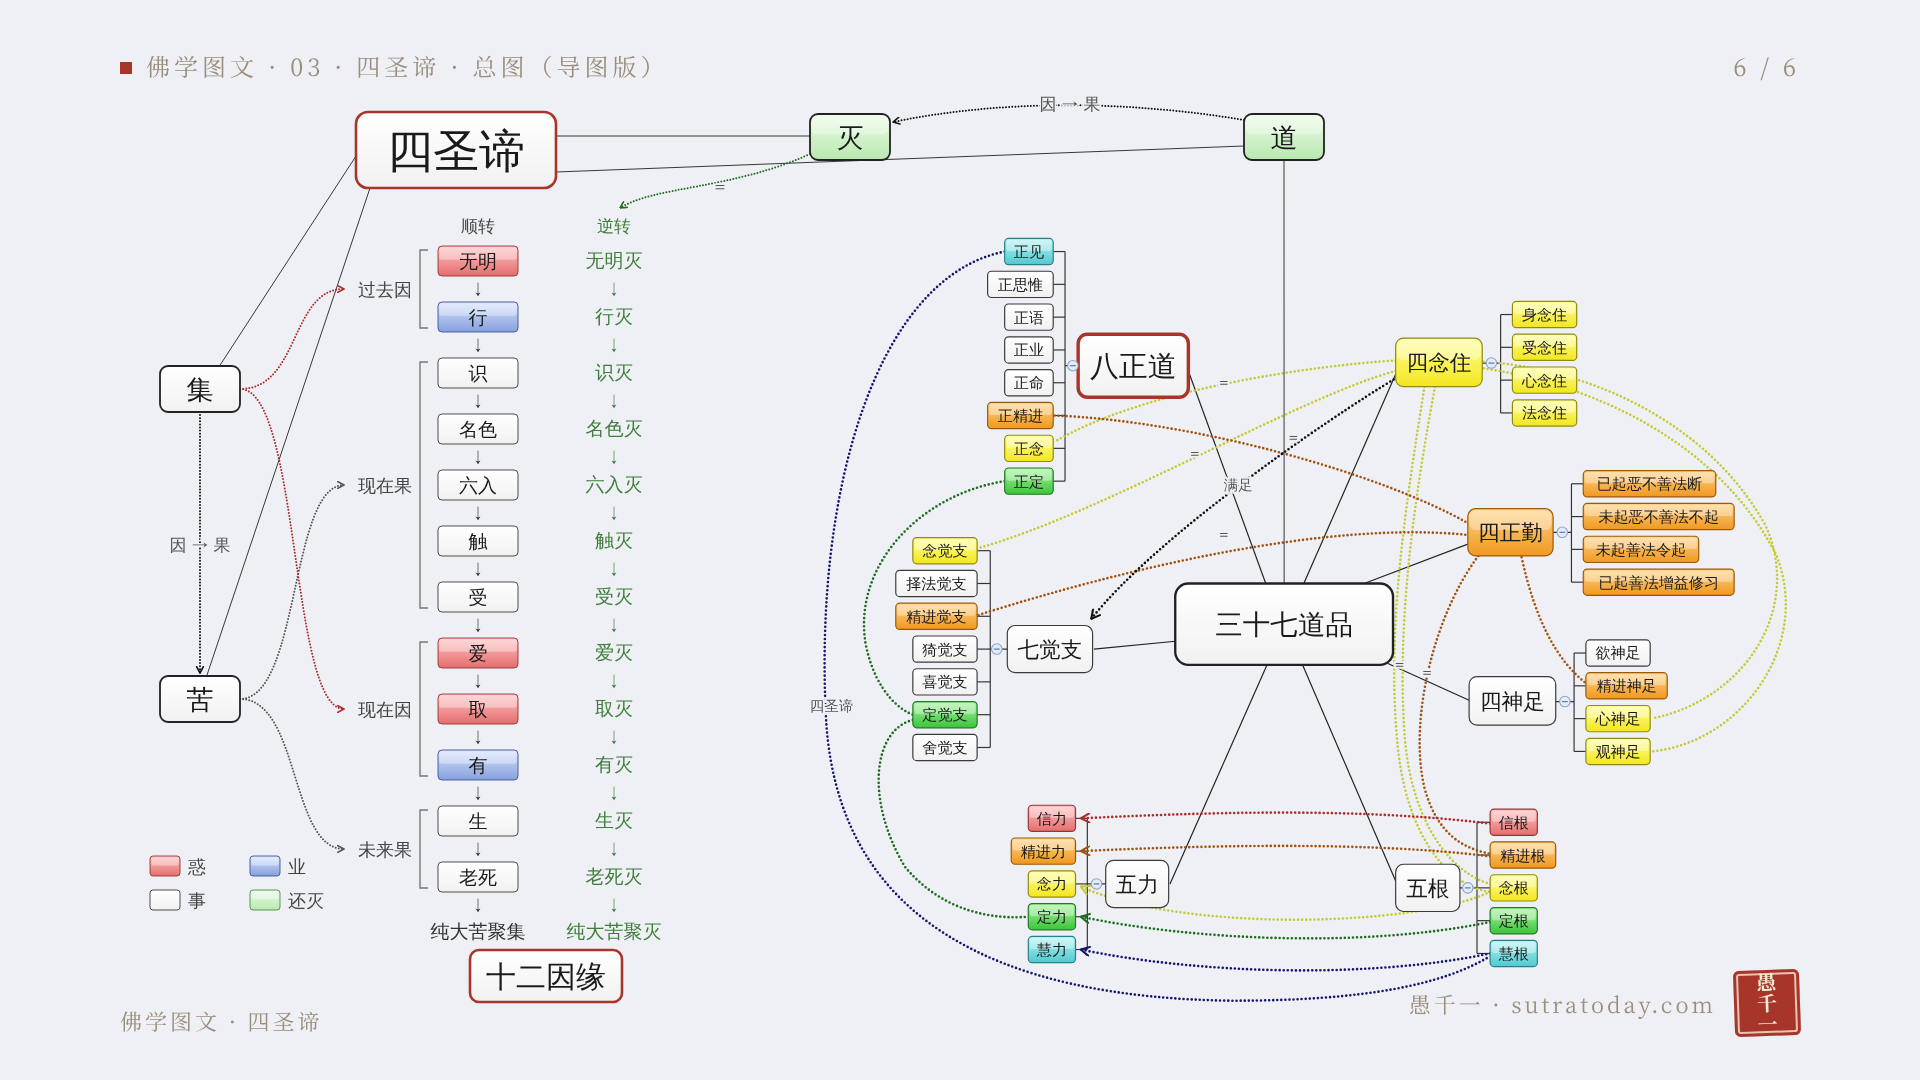
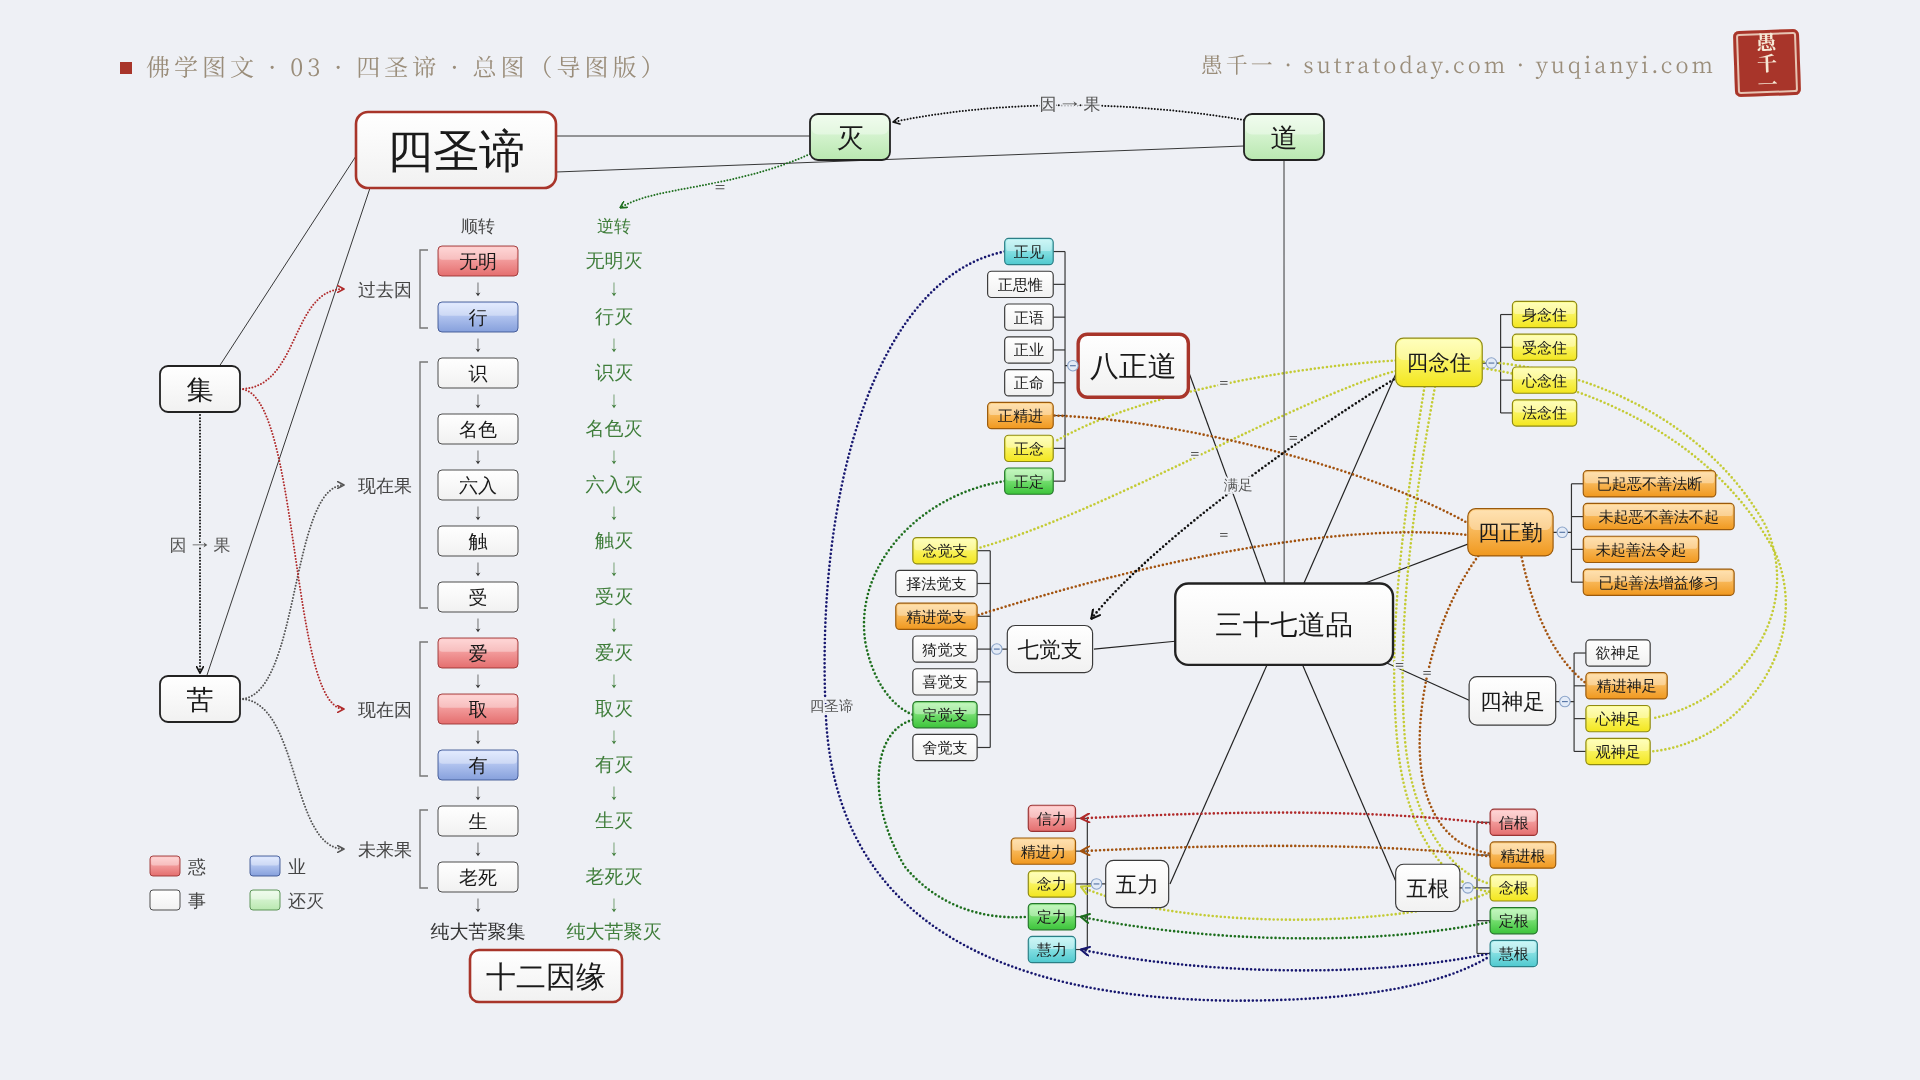
videos: 四圣谛图卡署名加上 yuqianyi.com；两张导图卡的署名移到右上角
Claude-Session: https://claude.ai/code/session_01HUmfYdn8wkAM14ebYcQraf

diff --git a/videos/four-noble-truths-infographic/cards.html b/videos/four-noble-truths-infographic/cards.html
@@ -230,6 +230,10 @@
   .card.xm svg.mm text.ni { fill: #3f7d3a; }
   .card.xm svg.mm text.ar { fill: #333; }
   .card.xm.ov svg.mm { font-family: "PingFang SC", "Microsoft YaHei", "Noto Sans SC", "WenQuanYi Zen Hei", sans-serif; }
+  /* 导图卡底部被图占满：署名移到右上角，页码随之隐藏 */
+  .card.xm .foot { top: 30px; bottom: auto; justify-content: flex-end; }
+  .card.xm .foot > span:first-child { display: none; }
+  .card.xm .head .pg { display: none; }
   .q { margin-top: 18px; font-size: 27px; line-height: 1.6; letter-spacing: .5px; border-left: 6px solid var(--cinnabar); padding: 4px 0 4px 24px; }
   .q small { display: block; font-size: 22px; color: var(--ink-soft); }
 </style>
@@ -287,7 +291,7 @@
 
   <div class="q" style="margin-top:20px">「此有故彼有，此起故彼起，谓缘无明行，乃至纯大苦聚集。」<small>《杂阿含经》卷 12 第 298 经（T99）：十二支的解释同出此经。三世两重因果依《俱舍论》卷 9「十二支三际，前后际各二，中八据圆满」</small></div>
 
-  <div class="foot"><span>佛学图文 · 四圣谛</span><span class="sign">愚千一 · sutratoday.com<span class="seal">愚千一</span></span></div>
+  <div class="foot"><span>佛学图文 · 四圣谛</span><span class="sign">愚千一 · sutratoday.com · yuqianyi.com<span class="seal">愚千一</span></span></div>
 </section>
 
 <!-- ===== 灭道 与 十二因缘逆转 ===== -->
@@ -350,7 +354,7 @@
 
   <div class="q" style="margin-top:40px">「若无明离欲而生明……老死则断，则知断其根本，如截多罗树头，于未来世成不生法。」<small>《杂阿含经》卷 12 第 297 经 大空法经（T99）　同经：「彼无明灭则行灭，乃至纯大苦聚灭」</small></div>
 
-  <div class="foot"><span>佛学图文 · 四圣谛</span><span class="sign">愚千一 · sutratoday.com<span class="seal">愚千一</span></span></div>
+  <div class="foot"><span>佛学图文 · 四圣谛</span><span class="sign">愚千一 · sutratoday.com · yuqianyi.com<span class="seal">愚千一</span></span></div>
 </section>
 
 <!-- ===== 八正道 展开为 三十七道品 ===== -->
@@ -388,7 +392,7 @@
 
   <div class="q" style="margin-top:18px">「八圣道修习满足已，四念处修习满足，四正勤、四如意足、五根、五力、七觉分修习满足。」<small>《杂阿含经》卷 13 第 305 经（T99）；四念处即正念：同经卷 37 第 1028 经；其余归属依《解脱道论》卷 11「三十七菩提法，成入八正道内」</small></div>
 
-  <div class="foot"><span>佛学图文 · 四圣谛</span><span class="sign">愚千一 · sutratoday.com<span class="seal">愚千一</span></span></div>
+  <div class="foot"><span>佛学图文 · 四圣谛</span><span class="sign">愚千一 · sutratoday.com · yuqianyi.com<span class="seal">愚千一</span></span></div>
 </section>
 
 <!-- ===== 三十七道品 思维导图（还原） ===== -->
@@ -555,7 +559,7 @@
 </svg>
 <!-- /MINDMAP37 -->
   </div>
-  <div class="foot"><span>佛学图文 · 四圣谛</span><span class="sign">愚千一 · sutratoday.com<span class="seal">愚千一</span></span></div>
+  <div class="foot"><span>佛学图文 · 四圣谛</span><span class="sign">愚千一 · sutratoday.com · yuqianyi.com<span class="seal">愚千一</span></span></div>
 </section>
 
 <!-- ===== 总图：四圣谛、十二因缘、三十七道品 ===== -->
@@ -625,7 +629,7 @@
 
   <div class="q">「谓八圣道，正见、正志、正语、正业、正命、正方便、正念、正定。我从彼道见老病死、老病死集、老病死灭、老病死灭道迹……」<small>《杂阿含经》卷 12 第 287 经（T99）　佛自述：依八圣道，看见十二支各自的集、灭、灭道迹</small></div>
 
-  <div class="foot"><span>佛学图文 · 四圣谛</span><span class="sign">愚千一 · sutratoday.com<span class="seal">愚千一</span></span></div>
+  <div class="foot"><span>佛学图文 · 四圣谛</span><span class="sign">愚千一 · sutratoday.com · yuqianyi.com<span class="seal">愚千一</span></span></div>
 </section>
 
 <!-- ===== 总图 · 思维导图版（与上面的总图二选一） ===== -->
@@ -883,7 +887,7 @@
 </svg>
 <!-- /MINDMAP_OVERVIEW -->
   </div>
-  <div class="foot"><span>佛学图文 · 四圣谛</span><span class="sign">愚千一 · sutratoday.com<span class="seal">愚千一</span></span></div>
+  <div class="foot"><span>佛学图文 · 四圣谛</span><span class="sign">愚千一 · sutratoday.com · yuqianyi.com<span class="seal">愚千一</span></span></div>
 </section>
 
 <script>
